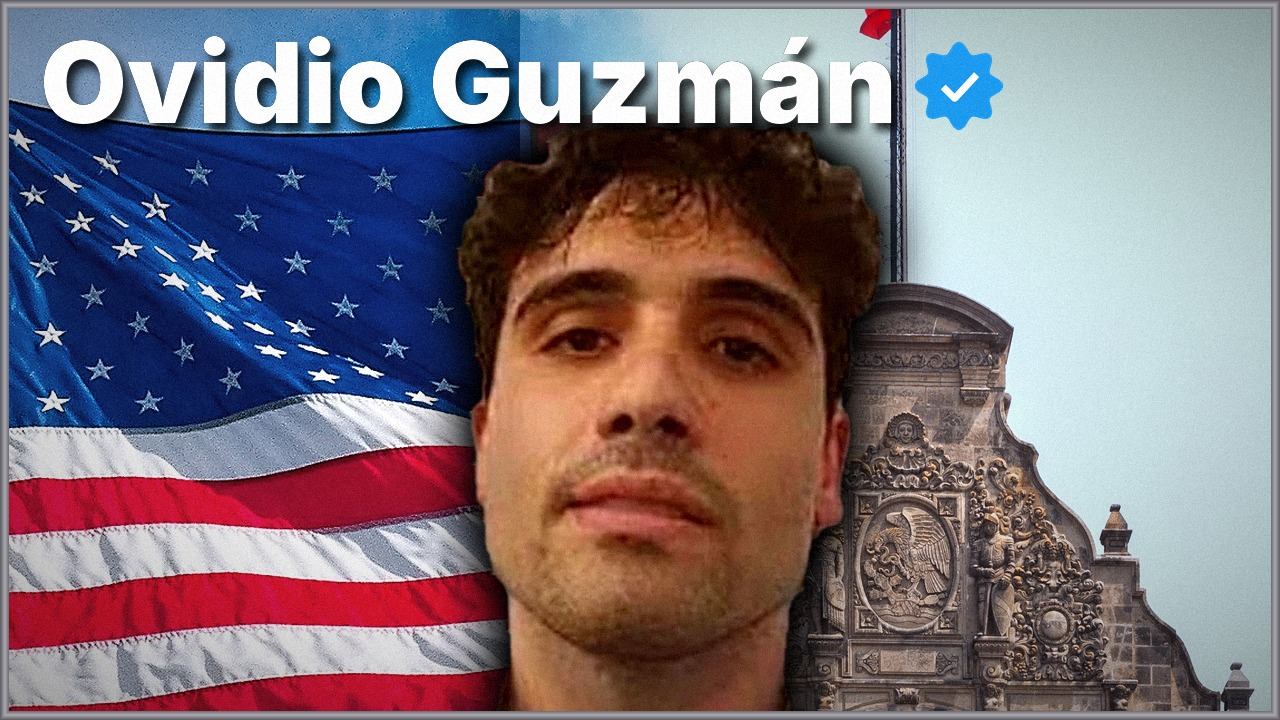
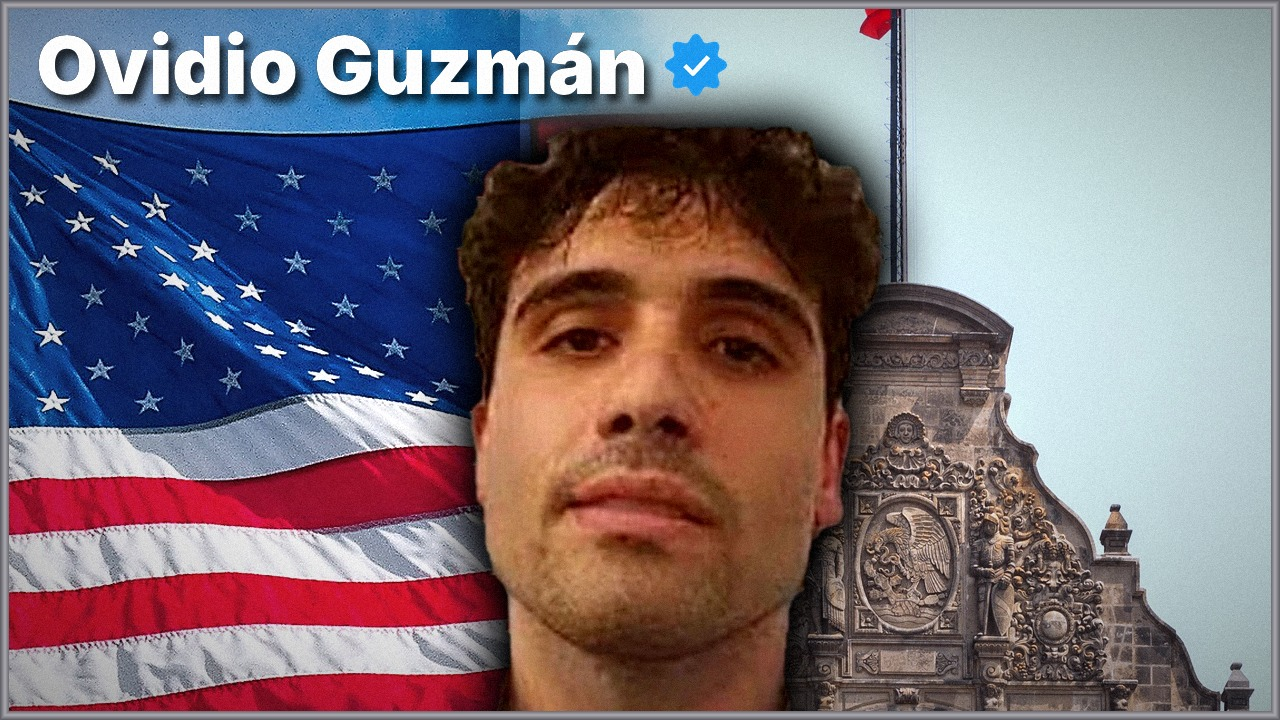
Miniatura Ovidio: texto superior mas pequeño
Claude-Session: https://claude.ai/code/session_011QfsHNEVyrMTuqwhNXZ9Nu

Changed region(s): [[0.0312, 0.0306, 0.7812, 0.1833]]

diff --git a/la_cosa_nuestra/miniaturas/miniatura_banderas.py b/la_cosa_nuestra/miniaturas/miniatura_banderas.py
@@ -67,10 +67,10 @@ def miniatura(variante="A"):
     cara = rostro_ovidio(610)
     x = (W - cara.width) // 2 + 30
     im = con_brillo(im, cara, (x, H - cara.height + 14), (0, 0, 0), radio=26, intens=0.85, borde=0)
-    sz = 112; nombre = "Ovidio Guzmán"
-    im = texto(im, (40, 14), nombre, sz, BLANCO, trazo=0, sombra=True, ancla="la")
+    sz = 80; nombre = "Ovidio Guzmán"
+    im = texto(im, (36, 16), nombre, sz, BLANCO, trazo=0, sombra=True, ancla="la")
     wtxt = ancho_texto(nombre, sz, 0)
-    im = insignia(im, (40 + wtxt + 62, 14 + 72), 44)
+    im = insignia(im, (40 + wtxt + int(sz * 0.55), 14 + int(sz * 0.64)), int(sz * 0.39))
     return marco(grano(im, 4))
 
 
